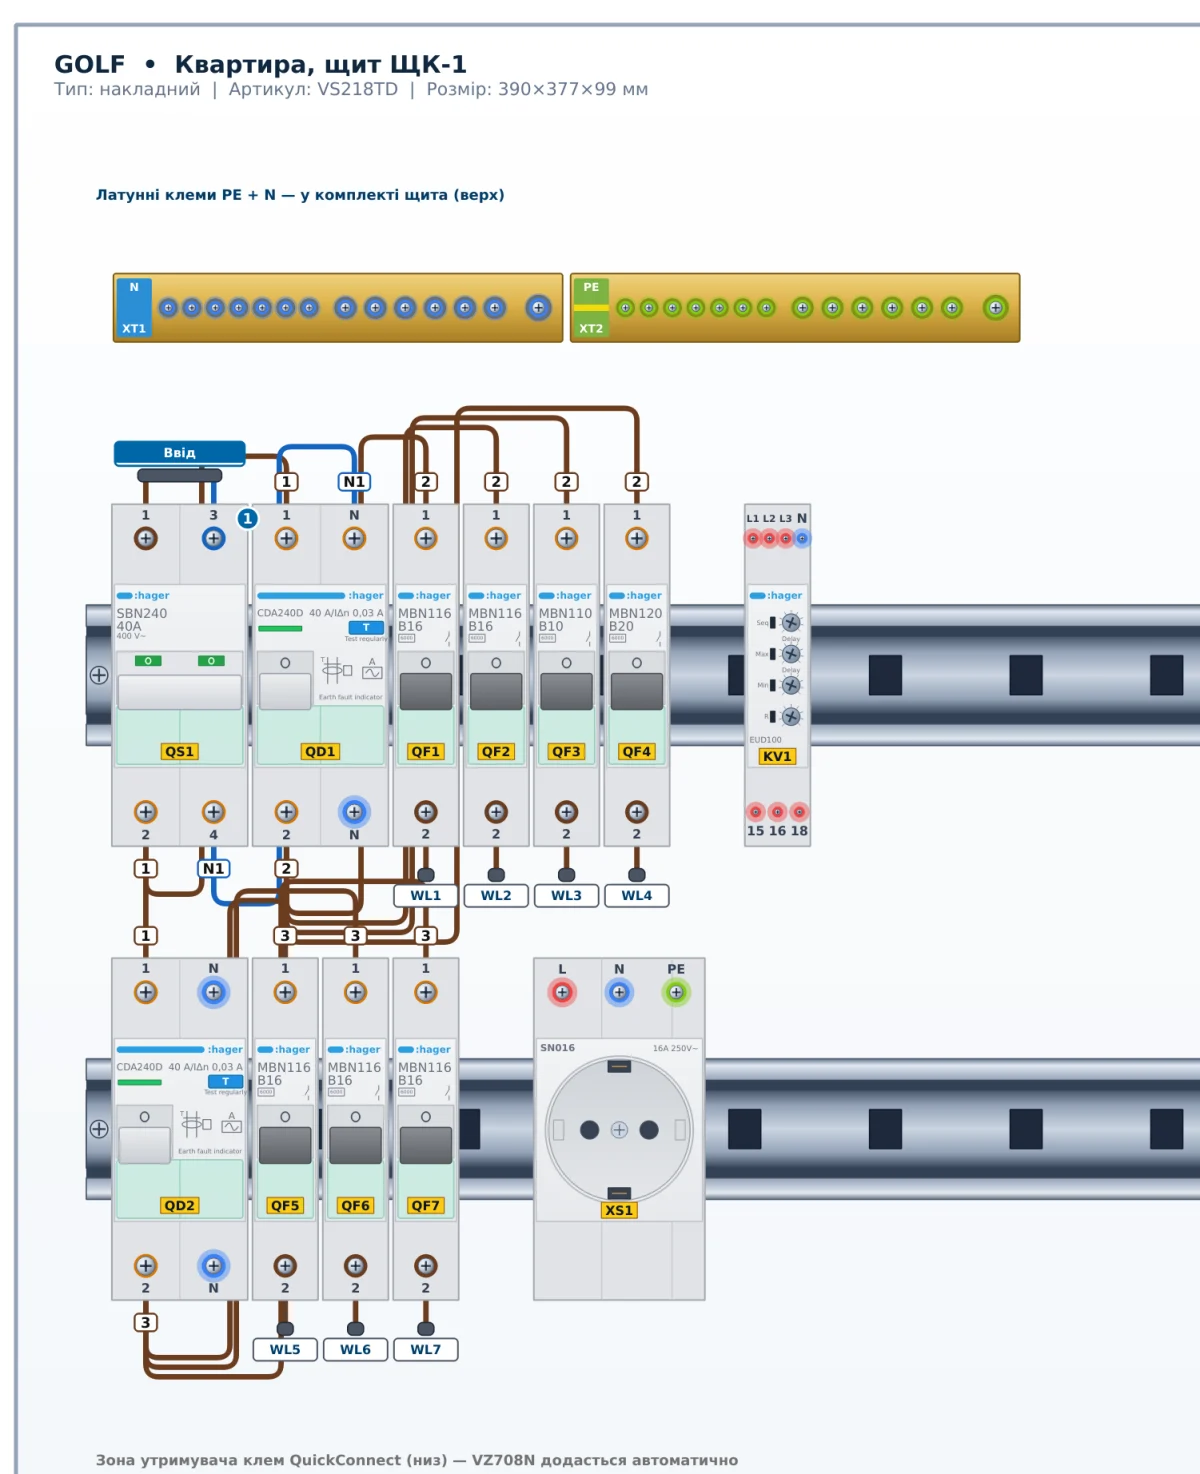
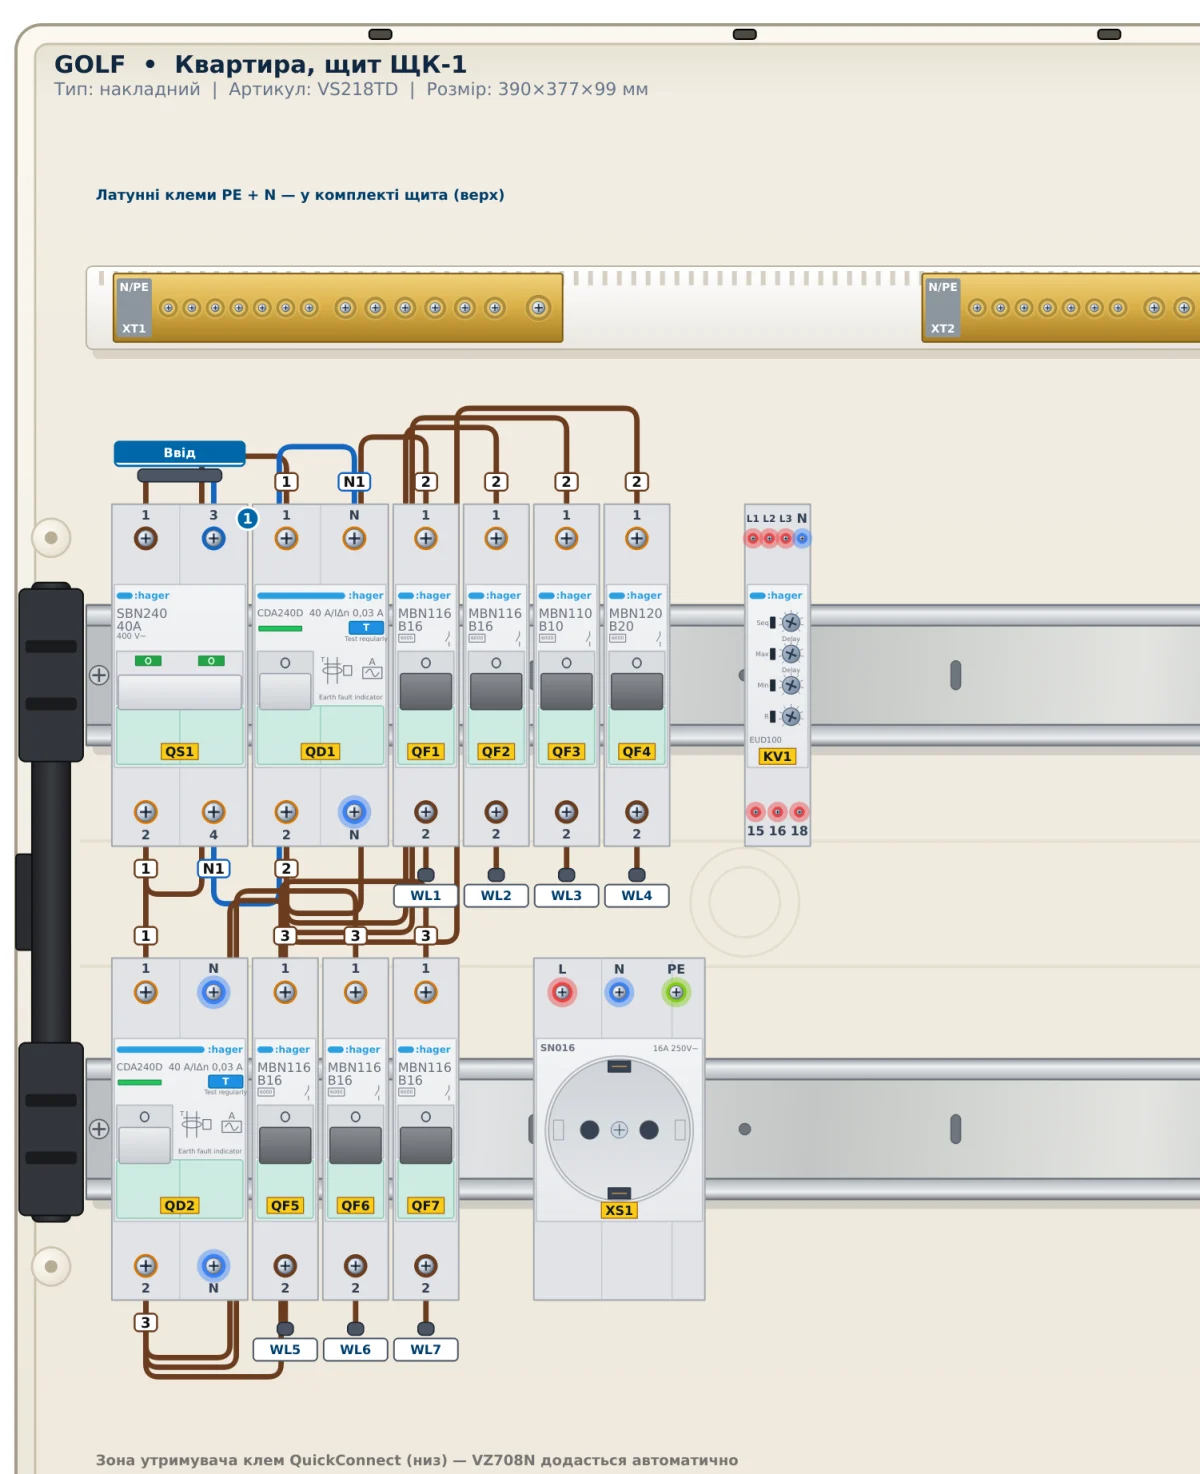
Оновлення сайту

diff --git a/index.html b/index.html
@@ -44,11 +44,11 @@
       <p class="lead">Зберіть модульний електрощит на екрані: корпус, апарати на DIN-рейках, проводи з маркуванням —
         і отримайте специфікацію з цінами та наклейки на пластрон за кілька хвилин.</p>
       <div class="cta">
-        <a class="btn big" href="https://github.com/YevgenZhylenkov/enclosure-designer-releases/releases/download/v2.03-beta/EnclosureDesigner-Setup-2.03-beta.exe"><svg viewBox="0 0 24 24" fill="none" stroke="currentColor" stroke-width="2" stroke-linecap="round" stroke-linejoin="round" aria-hidden="true"><path d="M21 15v4a2 2 0 0 1-2 2H5a2 2 0 0 1-2-2v-4"/><polyline points="7 10 12 15 17 10"/><line x1="12" y1="15" x2="12" y2="3"/></svg>Завантажити для Windows</a>
+        <a class="btn big" href="https://github.com/YevgenZhylenkov/enclosure-designer-releases/releases/download/v2.05-beta/EnclosureDesigner-Setup-2.05-beta.exe"><svg viewBox="0 0 24 24" fill="none" stroke="currentColor" stroke-width="2" stroke-linecap="round" stroke-linejoin="round" aria-hidden="true"><path d="M21 15v4a2 2 0 0 1-2 2H5a2 2 0 0 1-2-2v-4"/><polyline points="7 10 12 15 17 10"/><line x1="12" y1="15" x2="12" y2="3"/></svg>Завантажити для Windows</a>
         <a class="btn big ghost" href="guide/">Інструкція</a>
       </div>
       <p class="meta">
-        Версія <b>2.03-beta</b>         • <b>27,7 МБ</b>        • без реєстрації • без прав адміністратора
+        Версія <b>2.05-beta</b>         • <b>27,8 МБ</b>        • без реєстрації • без прав адміністратора
       </p>
       <p class="beta"><b>Програма ще в розробці (бета-версія).</b> Можливі помилки, збої та неточності — у каталозі,
         цінах, схемах і розрахунках. Перевіряйте результат і <a href="mailto:yevhen.zhylenkov@gmail.com">повідомляйте про
@@ -181,10 +181,10 @@
       <p>Інсталятор для Windows 10 / 11 (64-біт). Встановлюється без прав адміністратора, подальші оновлення програма
         пропонує сама.</p>
       <div class="cta">
-        <a class="btn big" href="https://github.com/YevgenZhylenkov/enclosure-designer-releases/releases/download/v2.03-beta/EnclosureDesigner-Setup-2.03-beta.exe"><svg viewBox="0 0 24 24" fill="none" stroke="currentColor" stroke-width="2" stroke-linecap="round" stroke-linejoin="round" aria-hidden="true"><path d="M21 15v4a2 2 0 0 1-2 2H5a2 2 0 0 1-2-2v-4"/><polyline points="7 10 12 15 17 10"/><line x1="12" y1="15" x2="12" y2="3"/></svg>Завантажити інсталятор</a>
+        <a class="btn big" href="https://github.com/YevgenZhylenkov/enclosure-designer-releases/releases/download/v2.05-beta/EnclosureDesigner-Setup-2.05-beta.exe"><svg viewBox="0 0 24 24" fill="none" stroke="currentColor" stroke-width="2" stroke-linecap="round" stroke-linejoin="round" aria-hidden="true"><path d="M21 15v4a2 2 0 0 1-2 2H5a2 2 0 0 1-2-2v-4"/><polyline points="7 10 12 15 17 10"/><line x1="12" y1="15" x2="12" y2="3"/></svg>Завантажити інсталятор</a>
       </div>
       <p class="meta">
-        Версія <b>2.03-beta</b>         • розмір <b>27,7 МБ</b>        • програма в стадії бета-тестування
+        Версія <b>2.05-beta</b>         • розмір <b>27,8 МБ</b>        • програма в стадії бета-тестування
       </p>
       <ul class="small">
         <li>Якщо Windows SmartScreen покаже «Windows захистив ваш комп'ютер» — натисніть «Докладніше» → «Усе одно запустити».
@@ -193,8 +193,8 @@
       </ul>
     </div>
         <div class="notes">
-      <h3>Що нового у версії 2.03-beta</h3>
-      <ul><li>у каталозі новий розділ «Реле імпульсні»: імпульсні реле Hager EPN і приставки до них EPN050–EPN053. Приставку можна поставити лише впритул зліва від реле, у поєднаннях з каталогу Hager; реле переноситься й видаляється разом з приставками. Колишній розділ «Реле» (сутінкові реле, світлорегулятори) прибрано — на вже створених щитах ці апарати лишаються;</li><li>у каталозі новий розділ «Доп. обладнання для MCB»: додаткові контакти, розчіплювачі (MZ201–MZ206, MZ215) і модулі дистанційного керування MZ9xx. Ставляться лише впритул зліва від автомата, у поєднаннях з каталогу Hager; автомат переноситься й видаляється разом з ними. Клеми підписані за каталогом та інструкцією Hager;</li><li>клеми апарата можна розташувати у два ряди у властивостях апарата.</li></ul>      <p class="small" style="margin:1em 0 0"><a href="changelog/" style="color:#8cc8f0">Уся історія версій →</a></p>
+      <h3>Що нового у версії 2.05-beta</h3>
+      <ul><li>новий вигляд щитів Volta;</li><li>новий вигляд щитів Golf;</li><li>латунні шини в щитах Golf, Vega і малих Vector: призначення кожної — N, PE чи фаза — визначає перший підключений до неї провід (до того на табличці «N/PE»);</li><li>тримач латунних шин займає всю ширину щита, тому клеми QuickConnect ставляться в іншу зону — над чи під рейками.</li></ul>      <p class="small" style="margin:1em 0 0"><a href="changelog/" style="color:#8cc8f0">Уся історія версій →</a></p>
     </div>
       </div>
 </section>
@@ -247,7 +247,7 @@
     <div>
       <a href="guide/">Інструкція</a> •
       <a href="changelog/">Історія версій</a> •
-      <a href="https://github.com/YevgenZhylenkov/enclosure-designer-releases/releases/download/v2.03-beta/EnclosureDesigner-Setup-2.03-beta.exe">Завантажити</a> •
+      <a href="https://github.com/YevgenZhylenkov/enclosure-designer-releases/releases/download/v2.05-beta/EnclosureDesigner-Setup-2.05-beta.exe">Завантажити</a> •
       <a href="https://donatello.to/enclosure_designer" target="_blank" rel="noopener">Підтримати</a><br>
       Зворотний зв'язок: <a href="mailto:yevhen.zhylenkov@gmail.com">yevhen.zhylenkov@gmail.com</a>
     </div>

diff --git a/changelog/index.html b/changelog/index.html
@@ -41,8 +41,12 @@
     або натисніть «Оновлення» в рядку стану.</p>
   <p class="beta"><b>Програма ще в розробці (бета-версія).</b> Можливі помилки, збої та неточності.
     Про знайдені проблеми пишіть на <a href="mailto:yevhen.zhylenkov@gmail.com">yevhen.zhylenkov@gmail.com</a>.</p>
+    <section class="release" id="v2.05-beta">
+    <h2>Версія 2.05-beta <span class="badge">поточна</span></h2>
+    <p class="muted small">17.11.2026</p>
+    <ul><li>новий вигляд щитів Volta;</li><li>новий вигляд щитів Golf;</li><li>латунні шини в щитах Golf, Vega і малих Vector: призначення кожної — N, PE чи фаза — визначає перший підключений до неї провід (до того на табличці «N/PE»);</li><li>тримач латунних шин займає всю ширину щита, тому клеми QuickConnect ставляться в іншу зону — над чи під рейками.</li></ul>  </section>
     <section class="release" id="v2.03-beta">
-    <h2>Версія 2.03-beta <span class="badge">поточна</span></h2>
+    <h2>Версія 2.03-beta</h2>
     <p class="muted small">17.11.2026</p>
     <ul><li>у каталозі новий розділ «Реле імпульсні»: імпульсні реле Hager EPN і приставки до них EPN050–EPN053. Приставку можна поставити лише впритул зліва від реле, у поєднаннях з каталогу Hager; реле переноситься й видаляється разом з приставками. Колишній розділ «Реле» (сутінкові реле, світлорегулятори) прибрано — на вже створених щитах ці апарати лишаються;</li><li>у каталозі новий розділ «Доп. обладнання для MCB»: додаткові контакти, розчіплювачі (MZ201–MZ206, MZ215) і модулі дистанційного керування MZ9xx. Ставляться лише впритул зліва від автомата, у поєднаннях з каталогу Hager; автомат переноситься й видаляється разом з ними. Клеми підписані за каталогом та інструкцією Hager;</li><li>клеми апарата можна розташувати у два ряди у властивостях апарата.</li></ul>  </section>
     <section class="release" id="v2.02-beta">
@@ -149,7 +153,7 @@
     <h2>Версія 1.3-beta</h2>
     <p class="muted small">05.11.2026</p>
     <ul><li>однолінійна схема: котушка контактора й контакти з прив&#039;язкою до реле (KM1, KM1.1, KM1.2);</li><li>щити Vector: комплектні клеми, набори VZ461–VZ464 у каталозі;</li><li>номери клем на корпусах апаратів;</li><li>виділений провід підсвічує гвинти своїх клем;</li><li>таймери EHN010 / EHN011: усі клеми знизу у два ряди.</li></ul>  </section>
-    <p><a class="btn" href="https://github.com/YevgenZhylenkov/enclosure-designer-releases/releases/download/v2.03-beta/EnclosureDesigner-Setup-2.03-beta.exe"><svg viewBox="0 0 24 24" fill="none" stroke="currentColor" stroke-width="2" stroke-linecap="round" stroke-linejoin="round" aria-hidden="true"><path d="M21 15v4a2 2 0 0 1-2 2H5a2 2 0 0 1-2-2v-4"/><polyline points="7 10 12 15 17 10"/><line x1="12" y1="15" x2="12" y2="3"/></svg>Завантажити останню версію</a></p>
+    <p><a class="btn" href="https://github.com/YevgenZhylenkov/enclosure-designer-releases/releases/download/v2.05-beta/EnclosureDesigner-Setup-2.05-beta.exe"><svg viewBox="0 0 24 24" fill="none" stroke="currentColor" stroke-width="2" stroke-linecap="round" stroke-linejoin="round" aria-hidden="true"><path d="M21 15v4a2 2 0 0 1-2 2H5a2 2 0 0 1-2-2v-4"/><polyline points="7 10 12 15 17 10"/><line x1="12" y1="15" x2="12" y2="3"/></svg>Завантажити останню версію</a></p>
 </main>
 <footer>
   <div class="wrap">
@@ -158,7 +162,7 @@
     <div>
       <a href="../guide/">Інструкція</a> •
       <a href="../changelog/">Історія версій</a> •
-      <a href="https://github.com/YevgenZhylenkov/enclosure-designer-releases/releases/download/v2.03-beta/EnclosureDesigner-Setup-2.03-beta.exe">Завантажити</a> •
+      <a href="https://github.com/YevgenZhylenkov/enclosure-designer-releases/releases/download/v2.05-beta/EnclosureDesigner-Setup-2.05-beta.exe">Завантажити</a> •
       <a href="https://donatello.to/enclosure_designer" target="_blank" rel="noopener">Підтримати</a><br>
       Зворотний зв'язок: <a href="mailto:yevhen.zhylenkov@gmail.com">yevhen.zhylenkov@gmail.com</a>
     </div>

diff --git a/guide/index.html b/guide/index.html
@@ -70,7 +70,7 @@
 
     <h2 id="install">1. Встановлення</h2>
     <ol>
-      <li><a href="https://github.com/YevgenZhylenkov/enclosure-designer-releases/releases/download/v2.03-beta/EnclosureDesigner-Setup-2.03-beta.exe">Завантажте інсталятор</a> (Windows 10 / 11, 64-біт).</li>
+      <li><a href="https://github.com/YevgenZhylenkov/enclosure-designer-releases/releases/download/v2.05-beta/EnclosureDesigner-Setup-2.05-beta.exe">Завантажте інсталятор</a> (Windows 10 / 11, 64-біт).</li>
       <li>Запустіть файл <code>EnclosureDesigner-Setup-….exe</code>. Права адміністратора не потрібні — програма
         встановлюється для поточного користувача.</li>
       <li>Якщо з'явиться синє вікно <b>«Windows захистив ваш комп'ютер»</b>, натисніть <b>«Докладніше»</b> →
@@ -106,7 +106,9 @@
         видно кількість рядів, модулів і розміри.</li>
       <li>Натисніть «Створити» — щит з'явиться по центру. Комплектні клеми N / PE і тримачі клем, що входять у корпус,
         програма додає сама. Латунні клеми N і PE щитів Golf і Vega стоять на одному тримачі: перетягніть одну з них —
-        тримач з обома клемами переїде над рейки або під них.</li>
+        тримач з обома клемами переїде над рейки або під них. Тримач займає всю ширину щита, тож клеми
+        QuickConnect ставляться в іншу зону. Шини однакові: призначення кожної (N, PE чи фаза) визначає перший підключений до неї провід
+        (до того на табличці — «N/PE»).</li>
     </ol>
     <h3>Заготовки і шаблони</h3>
     <p>У полі <b>«Заготовка»</b> вікна нового щита можна вибрати:</p>
@@ -569,7 +571,7 @@
     <div>
       <a href="../guide/">Інструкція</a> •
       <a href="../changelog/">Історія версій</a> •
-      <a href="https://github.com/YevgenZhylenkov/enclosure-designer-releases/releases/download/v2.03-beta/EnclosureDesigner-Setup-2.03-beta.exe">Завантажити</a> •
+      <a href="https://github.com/YevgenZhylenkov/enclosure-designer-releases/releases/download/v2.05-beta/EnclosureDesigner-Setup-2.05-beta.exe">Завантажити</a> •
       <a href="https://donatello.to/enclosure_designer" target="_blank" rel="noopener">Підтримати</a><br>
       Зворотний зв'язок: <a href="mailto:yevhen.zhylenkov@gmail.com">yevhen.zhylenkov@gmail.com</a>
     </div>
